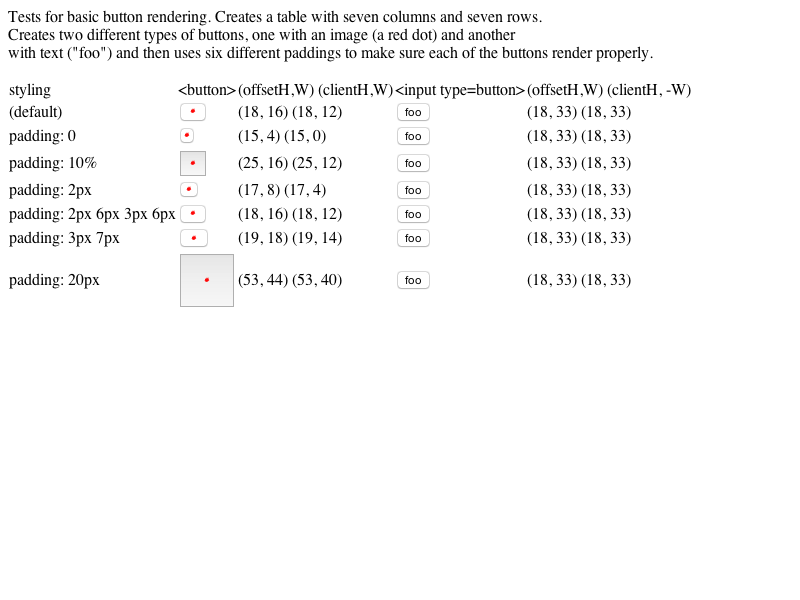
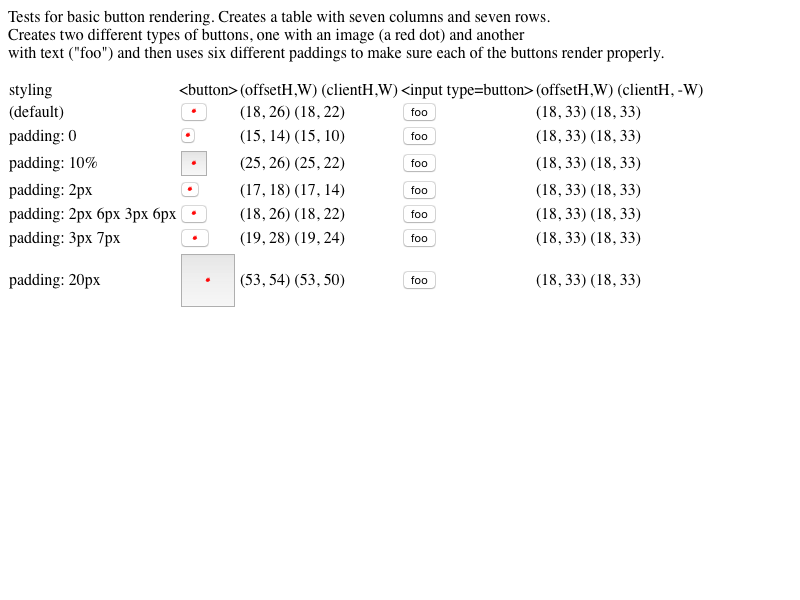
Two tests, which include data uri images, need to be changed and rebaselined since the expected results are incorrect. https://bugs.webkit.org/show_bug.cgi?id=140199.
Patch by Said Abou-Hallawa <sabouhallawa@apple.com> on 2015-01-07
Reviewed by Simon Fraser.

* compositing/tiling/huge-layer-img-expected.txt:
* compositing/tiling/huge-layer-img.html:
* platform/mac/compositing/tiling/huge-layer-img-expected.txt:
This test draws a huge image on a canvas and then gets the data uri from the canvas and
set it as the source of an <img> tag. We need to rebaseline the expected results since
the original ones were incorrect. The test was getting the layer tree too early. Before
the image data was loaded, a tiled layer was created. After the image data is loaded, we
could have figured out that the image is a simple one and we could have removed the tiling.
The fix is to change the test to delay capturing the layer tree only after making sure
that the image data is loaded.

* fast/forms/basic-buttons.html:
* platform/mac-mountainlion/fast/forms/basic-buttons-expected.txt:
* platform/mac/fast/forms/basic-buttons-expected.png:
* platform/mac/fast/forms/basic-buttons-expected.txt:
This test includes a data uri image just to not include a file for the image by itself.
We need to rebaseline the expected results since the original ones were incorrect. The
test was assuming that after the <img> tag is added to the HTML body, the image size can
be retrieved immediately. Because this assumption is incorrect in general, we were getting
empty sizes for all the the data uri images. The fix is to change the test such that it
[…]

diff --git a/LayoutTests/fast/forms/basic-buttons.html b/LayoutTests/fast/forms/basic-buttons.html
@@ -1,4 +1,5 @@
-<!DocType html><html> 
+<!DocType html>
+<html> 
 <body> 
 
 Tests for basic button rendering. Creates a table with seven columns and seven rows. <BR>
@@ -8,6 +9,9 @@ with text ("foo") and then uses six different paddings to make sure each of the 
 
 <script>
[1 lines of base64/hex data omitted]
+
+if (window.testRunner)
+    testRunner.waitUntilDone();
 
 function getRowHtml(style) 
 {
@@ -31,7 +35,7 @@ document.body.innerHTML += '<table cellspacing=0><tbody>' +
      getRowHtml('padding: 20px') +
      '</tbody></table>';
 
-function printSize(tagname, cell) 
+function printSize(tagname) 
 {
     var buttons = document.getElementsByTagName(tagname);
     for (var i = 0; i < buttons.length; i++) {
@@ -48,8 +52,16 @@ function printSize(tagname, cell)
     }
 }
 
-printSize('button');
-printSize('input');
+function testOnLoad()
+{
+    printSize('button');
+    printSize('input');
+    if (window.testRunner)
+        testRunner.notifyDone();
+}
+
+window.addEventListener('load', testOnLoad, false);
+
 </script>
 
 </body> 

diff --git a/LayoutTests/compositing/tiling/huge-layer-img.html b/LayoutTests/compositing/tiling/huge-layer-img.html
@@ -12,8 +12,10 @@
     }
     </style>
     <script type="text/javascript" charset="utf-8">
-        if (window.testRunner)
+        if (window.testRunner) {
             testRunner.dumpAsText(true);
+            testRunner.waitUntilDone();
+        }
 
         function testOnLoad()
         {
@@ -27,9 +29,14 @@
             context.fillStyle = "red";
             context.fillRect(50, 50, 200, 200);
             img.src = canvas.toDataURL();
-
-            if (window.testRunner)
+        }
+        
+        function onImageLoad()
+        {
+            if (window.testRunner) {
                 document.getElementById('layers').innerHTML = window.internals.layerTreeAsText(document);
+                testRunner.notifyDone();
+            }
         }
 
         window.addEventListener('load', testOnLoad, false);
@@ -41,7 +48,7 @@
         There should be a red box within the yellow box.
         This tests that we can support very large composited image layers.
       -->
-        <img id="container">
+        <img onload="onImageLoad()" id="container">
         <pre id="layers">Layer tree appears here in DRT.</pre>
   </body>
 </html>
